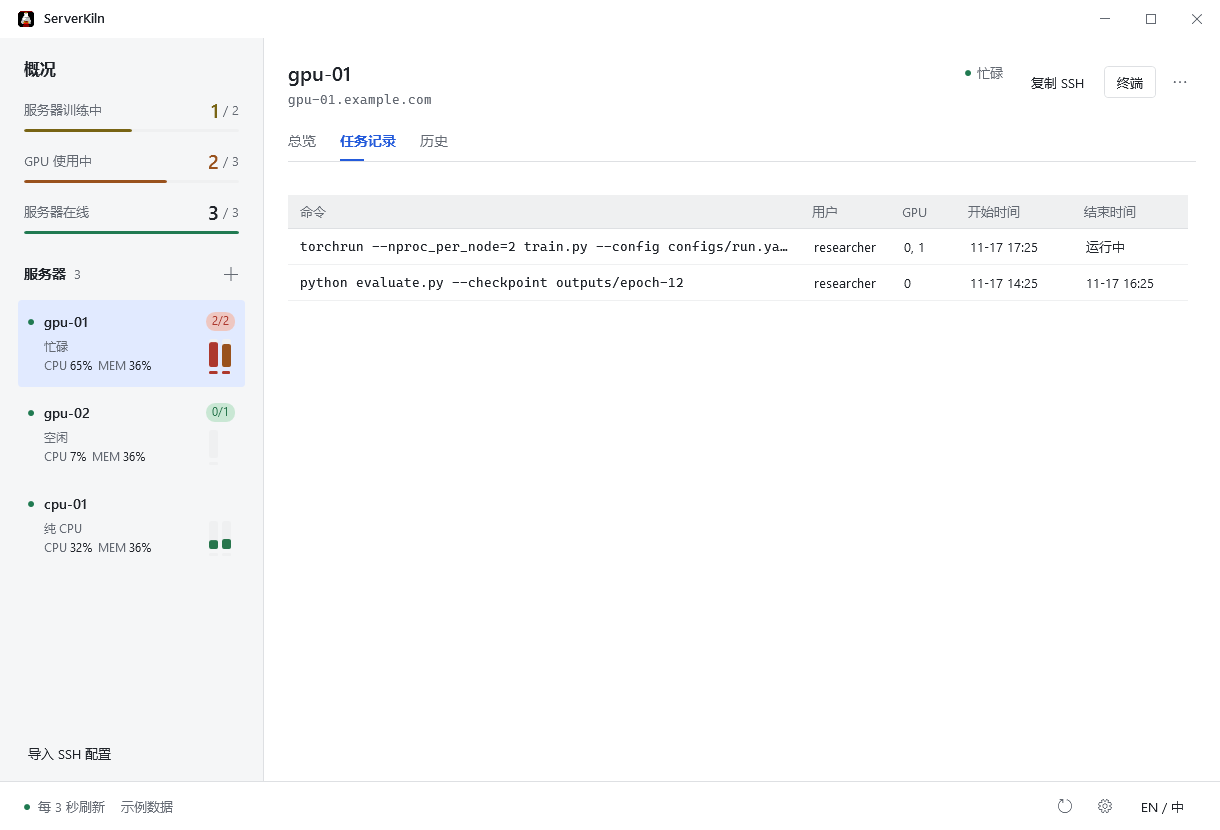
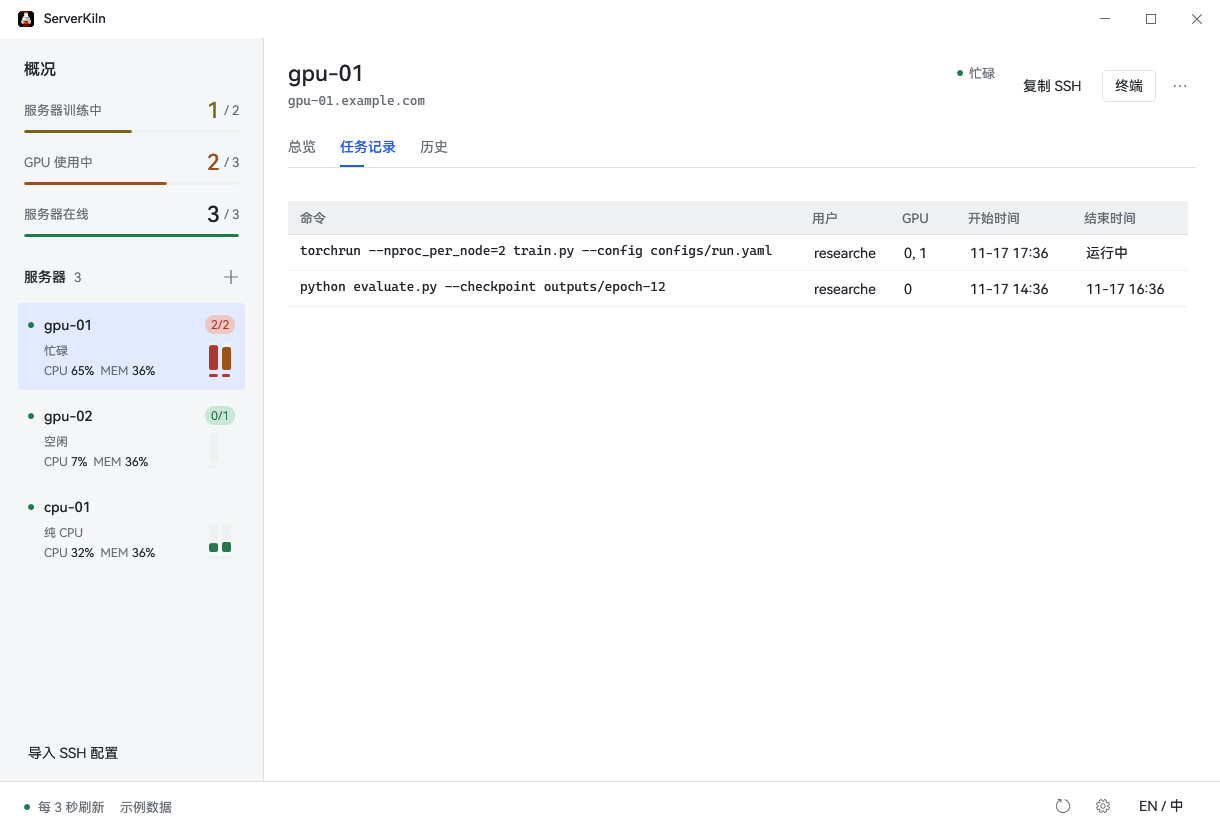
ui: refine Windows typography and font fallbacks

diff --git a/Sources/ServerKiln.Windows/MainWindow.xaml b/Sources/ServerKiln.Windows/MainWindow.xaml
@@ -51,7 +51,7 @@
     </StackPanel></Expander.Header>
     <StackPanel>
      <Border BorderBrush="{DynamicResource BorderBrush}" BorderThickness="0,1,0,0" Padding="0,12,0,0">
-      <TextBox Text="{Binding Command, Mode=OneWay}" IsReadOnly="True" TextWrapping="Wrap" BorderThickness="0" Background="{DynamicResource RaisedBrush}" Padding="10,8" FontFamily="Cascadia Mono, Consolas, Microsoft YaHei UI" FontSize="13" MaxHeight="200" VerticalScrollBarVisibility="Auto" />
+      <TextBox Text="{Binding Command, Mode=OneWay}" IsReadOnly="True" TextWrapping="Wrap" BorderThickness="0" Background="{DynamicResource RaisedBrush}" Padding="10,8" FontFamily="{DynamicResource MonoFontFamily}" FontSize="13" MaxHeight="200" VerticalScrollBarVisibility="Auto" />
      </Border>
      <Grid Margin="0,12,0,8">
       <Grid.ColumnDefinitions><ColumnDefinition Width="Auto" /><ColumnDefinition /></Grid.ColumnDefinitions>
@@ -70,7 +70,7 @@
   <Grid.ColumnDefinitions><ColumnDefinition Width="264" /><ColumnDefinition /></Grid.ColumnDefinitions>
   <Grid.RowDefinitions><RowDefinition Height="38" /><RowDefinition /><RowDefinition Height="Auto" /></Grid.RowDefinitions>
   <Grid Grid.ColumnSpan="2" Background="{DynamicResource SurfaceBrush}">
-   <StackPanel Orientation="Horizontal" Margin="16,0,0,0" VerticalAlignment="Center"><Image Source="AppIcon.ico" Width="20" Height="20" Margin="0,0,8,0" /><TextBlock Text="ServerKiln" FontSize="13" FontWeight="SemiBold" /></StackPanel>
+   <StackPanel Orientation="Horizontal" Margin="16,0,0,0" VerticalAlignment="Center"><Image Source="AppIcon.ico" Width="20" Height="20" Margin="0,0,8,0" /><TextBlock Text="ServerKiln" FontSize="13" FontWeight="Medium" /></StackPanel>
    <StackPanel Orientation="Horizontal" HorizontalAlignment="Right" shell:WindowChrome.IsHitTestVisibleInChrome="True">
     <Button Style="{StaticResource CaptionButton}" Content="&#xE921;" Click="MinimizeWindow" ToolTip="{Binding [Minimize], Source={x:Static local:Localizer.Current}}" AutomationProperties.Name="{Binding [Minimize], Source={x:Static local:Localizer.Current}}" />
     <Button x:Name="MaximizeButton" Style="{StaticResource CaptionButton}" Content="&#xE922;" Click="MaximizeWindow" />
@@ -80,24 +80,24 @@
   <Border Grid.Row="1" Grid.Column="0" Background="{DynamicResource SidebarBrush}" BorderBrush="{DynamicResource BorderBrush}" BorderThickness="0,0,1,0" Padding="16,20,16,12">
    <Grid><Grid.RowDefinitions><RowDefinition Height="Auto" /><RowDefinition Height="Auto" /><RowDefinition /><RowDefinition Height="Auto" /></Grid.RowDefinitions>
     <StackPanel Margin="8,0,8,24">
-     <TextBlock Text="{Binding [FleetOverview], Source={x:Static local:Localizer.Current}}" FontSize="16" FontWeight="SemiBold" Margin="0,0,0,16" />
+     <TextBlock Text="{Binding [FleetOverview], Source={x:Static local:Localizer.Current}}" FontSize="16" FontWeight="Medium" Margin="0,0,0,16" />
      <Grid Margin="0,0,0,14"><Grid.ColumnDefinitions><ColumnDefinition /><ColumnDefinition Width="Auto" /></Grid.ColumnDefinitions><Grid.RowDefinitions><RowDefinition /><RowDefinition Height="Auto" /></Grid.RowDefinitions>
-      <TextBlock Text="{Binding [TrainingServers], Source={x:Static local:Localizer.Current}}" Style="{StaticResource Caption}" VerticalAlignment="Center" /><StackPanel Grid.Column="1" Orientation="Horizontal"><TextBlock Text="{Binding TrainingCount}" FontSize="20" FontWeight="SemiBold" Foreground="{Binding TrainingBrush}" /><TextBlock Text="{Binding TrainingTotal}" Style="{StaticResource Caption}" VerticalAlignment="Center" Margin="4,0,0,0" /></StackPanel><ProgressBar Grid.Row="1" Grid.ColumnSpan="2" Value="{Binding TrainingFraction, Mode=OneWay}" Foreground="{Binding TrainingBrush}" Margin="0,6,0,0" />
+      <TextBlock Text="{Binding [TrainingServers], Source={x:Static local:Localizer.Current}}" Style="{StaticResource Caption}" VerticalAlignment="Center" /><StackPanel Grid.Column="1" Orientation="Horizontal"><TextBlock Text="{Binding TrainingCount}" Style="{StaticResource MetricValue}" Foreground="{Binding TrainingBrush}" /><TextBlock Text="{Binding TrainingTotal}" Style="{StaticResource Caption}" VerticalAlignment="Center" Margin="4,0,0,0" /></StackPanel><ProgressBar Grid.Row="1" Grid.ColumnSpan="2" Value="{Binding TrainingFraction, Mode=OneWay}" Foreground="{Binding TrainingBrush}" Margin="0,6,0,0" />
      </Grid>
      <Grid Margin="0,0,0,14"><Grid.ColumnDefinitions><ColumnDefinition /><ColumnDefinition Width="Auto" /></Grid.ColumnDefinitions><Grid.RowDefinitions><RowDefinition /><RowDefinition Height="Auto" /></Grid.RowDefinitions>
-      <TextBlock Text="{Binding [BusyGpus], Source={x:Static local:Localizer.Current}}" Style="{StaticResource Caption}" VerticalAlignment="Center" /><StackPanel Grid.Column="1" Orientation="Horizontal"><TextBlock Text="{Binding BusyGpuCount}" FontSize="20" FontWeight="SemiBold" Foreground="{Binding GpuBrush}" /><TextBlock Text="{Binding GpuTotal}" Style="{StaticResource Caption}" VerticalAlignment="Center" Margin="4,0,0,0" /></StackPanel><ProgressBar Grid.Row="1" Grid.ColumnSpan="2" Value="{Binding GpuFraction, Mode=OneWay}" Foreground="{Binding GpuBrush}" Margin="0,6,0,0" />
+      <TextBlock Text="{Binding [BusyGpus], Source={x:Static local:Localizer.Current}}" Style="{StaticResource Caption}" VerticalAlignment="Center" /><StackPanel Grid.Column="1" Orientation="Horizontal"><TextBlock Text="{Binding BusyGpuCount}" Style="{StaticResource MetricValue}" Foreground="{Binding GpuBrush}" /><TextBlock Text="{Binding GpuTotal}" Style="{StaticResource Caption}" VerticalAlignment="Center" Margin="4,0,0,0" /></StackPanel><ProgressBar Grid.Row="1" Grid.ColumnSpan="2" Value="{Binding GpuFraction, Mode=OneWay}" Foreground="{Binding GpuBrush}" Margin="0,6,0,0" />
      </Grid>
      <Grid><Grid.ColumnDefinitions><ColumnDefinition /><ColumnDefinition Width="Auto" /></Grid.ColumnDefinitions><Grid.RowDefinitions><RowDefinition /><RowDefinition Height="Auto" /></Grid.RowDefinitions>
-      <TextBlock Text="{Binding [OnlineServers], Source={x:Static local:Localizer.Current}}" Style="{StaticResource Caption}" VerticalAlignment="Center" /><StackPanel Grid.Column="1" Orientation="Horizontal"><TextBlock Text="{Binding OnlineCount}" FontSize="20" FontWeight="SemiBold" /><TextBlock Text="{Binding OnlineTotal}" Style="{StaticResource Caption}" VerticalAlignment="Center" Margin="4,0,0,0" /></StackPanel><ProgressBar Grid.Row="1" Grid.ColumnSpan="2" Value="{Binding OnlineFraction, Mode=OneWay}" Foreground="{DynamicResource GreenBrush}" Margin="0,6,0,0" />
+      <TextBlock Text="{Binding [OnlineServers], Source={x:Static local:Localizer.Current}}" Style="{StaticResource Caption}" VerticalAlignment="Center" /><StackPanel Grid.Column="1" Orientation="Horizontal"><TextBlock Text="{Binding OnlineCount}" Style="{StaticResource MetricValue}" /><TextBlock Text="{Binding OnlineTotal}" Style="{StaticResource Caption}" VerticalAlignment="Center" Margin="4,0,0,0" /></StackPanel><ProgressBar Grid.Row="1" Grid.ColumnSpan="2" Value="{Binding OnlineFraction, Mode=OneWay}" Foreground="{DynamicResource GreenBrush}" Margin="0,6,0,0" />
      </Grid>
     </StackPanel>
-    <Grid Grid.Row="1" Margin="8,0,0,8"><Grid.ColumnDefinitions><ColumnDefinition /><ColumnDefinition Width="Auto" /></Grid.ColumnDefinitions><StackPanel Orientation="Horizontal" VerticalAlignment="Center"><TextBlock Text="{Binding [Fleet], Source={x:Static local:Localizer.Current}}" FontWeight="SemiBold" /><TextBlock Text="{Binding Servers.Count}" Style="{StaticResource Caption}" Margin="8,0,0,0" VerticalAlignment="Center" /></StackPanel><Button Grid.Column="1" Content="&#xE710;" Style="{StaticResource IconButton}" Click="AddServer" ToolTip="{Binding [Add], Source={x:Static local:Localizer.Current}}" AutomationProperties.Name="{Binding [Add], Source={x:Static local:Localizer.Current}}" /></Grid>
+    <Grid Grid.Row="1" Margin="8,0,0,8"><Grid.ColumnDefinitions><ColumnDefinition /><ColumnDefinition Width="Auto" /></Grid.ColumnDefinitions><StackPanel Orientation="Horizontal" VerticalAlignment="Center"><TextBlock Text="{Binding [Fleet], Source={x:Static local:Localizer.Current}}" FontWeight="Medium" /><TextBlock Text="{Binding Servers.Count}" Style="{StaticResource Caption}" Margin="8,0,0,0" VerticalAlignment="Center" /></StackPanel><Button Grid.Column="1" Content="&#xE710;" Style="{StaticResource IconButton}" Click="AddServer" ToolTip="{Binding [Add], Source={x:Static local:Localizer.Current}}" AutomationProperties.Name="{Binding [Add], Source={x:Static local:Localizer.Current}}" /></Grid>
     <ListBox Grid.Row="2" x:Name="ServerList" ItemsSource="{Binding Servers}" SelectedItem="{Binding SelectedServer, Mode=TwoWay}" AutomationProperties.Name="{Binding [Fleet], Source={x:Static local:Localizer.Current}}" ScrollViewer.VerticalScrollBarVisibility="Auto">
      <ListBox.ItemTemplate><DataTemplate>
       <Grid Margin="2,4"><Grid.ColumnDefinitions><ColumnDefinition Width="16" /><ColumnDefinition /></Grid.ColumnDefinitions>
        <Ellipse Width="6" Height="6" Fill="{Binding ConnectionBrush}" HorizontalAlignment="Left" VerticalAlignment="Top" Margin="0,7,0,0" />
        <StackPanel Grid.Column="1">
-        <DockPanel><Border DockPanel.Dock="Right" Background="{Binding OccupancyFill}" CornerRadius="9" Padding="6,1" Margin="8,0,0,0" Visibility="{Binding GpuVisibility}"><TextBlock Text="{Binding Occupancy}" Foreground="{Binding OccupancyBrush}" FontSize="12" /></Border><TextBlock Text="{Binding Name}" FontSize="14" FontWeight="SemiBold" TextTrimming="CharacterEllipsis" ToolTip="{Binding Name}" /></DockPanel>
+        <DockPanel><Border DockPanel.Dock="Right" Background="{Binding OccupancyFill}" CornerRadius="9" Padding="6,1" Margin="8,0,0,0" Visibility="{Binding GpuVisibility}"><TextBlock Text="{Binding Occupancy}" Foreground="{Binding OccupancyBrush}" FontSize="12" /></Border><TextBlock Text="{Binding Name}" FontSize="14" FontWeight="Medium" TextTrimming="CharacterEllipsis" ToolTip="{Binding Name}" /></DockPanel>
         <Grid Margin="0,8,0,0"><Grid.ColumnDefinitions><ColumnDefinition /><ColumnDefinition Width="Auto" /></Grid.ColumnDefinitions><StackPanel><TextBlock Text="{Binding Status}" Style="{StaticResource Caption}" FontSize="12" /><StackPanel Orientation="Horizontal" Margin="0,4,0,0"><TextBlock Text="CPU " Style="{StaticResource Caption}" FontSize="12" /><TextBlock Text="{Binding Cpu}" FontSize="12" /><TextBlock Text="  MEM " Style="{StaticResource Caption}" FontSize="12" /><TextBlock Text="{Binding Ram}" FontSize="12" /></StackPanel></StackPanel><local:GpuMiniBars Grid.Column="1" Snapshot="{Binding Reading.Snapshot}" MaxWidth="54" Margin="8,0,0,0" VerticalAlignment="Center" ToolTip="{Binding GpuModel}" /></Grid>
        </StackPanel>
       </Grid>
@@ -108,10 +108,10 @@
   </Border>
   <Border Grid.Row="1" Grid.Column="1" Background="{DynamicResource SurfaceBrush}" Padding="24,20,24,0">
    <Grid>
-   <StackPanel Visibility="{Binding EmptyVisibility}" VerticalAlignment="Center" HorizontalAlignment="Center" MaxWidth="420"><TextBlock Text="{Binding [NoServers], Source={x:Static local:Localizer.Current}}" FontSize="18" FontWeight="SemiBold" TextAlignment="Center" /><TextBlock Text="{Binding [Welcome], Source={x:Static local:Localizer.Current}}" Style="{StaticResource Caption}" TextWrapping="Wrap" TextAlignment="Center" Margin="0,12,0,24" /><Button Content="{Binding [Add], Source={x:Static local:Localizer.Current}}" Click="AddServer" HorizontalAlignment="Center" /></StackPanel>
+   <StackPanel Visibility="{Binding EmptyVisibility}" VerticalAlignment="Center" HorizontalAlignment="Center" MaxWidth="420"><TextBlock Text="{Binding [NoServers], Source={x:Static local:Localizer.Current}}" FontSize="18" FontWeight="Medium" TextAlignment="Center" /><TextBlock Text="{Binding [Welcome], Source={x:Static local:Localizer.Current}}" Style="{StaticResource Caption}" TextWrapping="Wrap" TextAlignment="Center" Margin="0,12,0,24" /><Button Content="{Binding [Add], Source={x:Static local:Localizer.Current}}" Click="AddServer" HorizontalAlignment="Center" /></StackPanel>
    <Grid x:Name="DetailView" Visibility="{Binding DetailVisibility}"><Grid.RowDefinitions><RowDefinition Height="Auto" /><RowDefinition /></Grid.RowDefinitions>
     <Grid x:Name="DetailsHeader" DataContext="{Binding SelectedServer}" Margin="0,0,0,16"><Grid.ColumnDefinitions><ColumnDefinition /><ColumnDefinition Width="Auto" /></Grid.ColumnDefinitions>
-     <StackPanel Margin="0,0,16,0"><DockPanel><StackPanel DockPanel.Dock="Right" Orientation="Horizontal" Margin="12,0,0,0" VerticalAlignment="Center"><Ellipse Width="6" Height="6" Fill="{Binding ConnectionBrush}" Margin="0,0,6,0" /><TextBlock Text="{Binding Status}" Style="{StaticResource Caption}" /></StackPanel><TextBlock Text="{Binding Name}" FontSize="20" FontWeight="SemiBold" TextTrimming="CharacterEllipsis" ToolTip="{Binding Name}" /></DockPanel><TextBlock Text="{Binding Target}" Style="{StaticResource CommandText}" Foreground="{DynamicResource MutedBrush}" Margin="0,6,0,0" ToolTip="{Binding Target}" /></StackPanel>
+     <StackPanel Margin="0,0,16,0"><DockPanel><StackPanel DockPanel.Dock="Right" Orientation="Horizontal" Margin="12,0,0,0" VerticalAlignment="Center"><Ellipse Width="6" Height="6" Fill="{Binding ConnectionBrush}" Margin="0,0,6,0" /><TextBlock Text="{Binding Status}" Style="{StaticResource Caption}" /></StackPanel><TextBlock Text="{Binding Name}" FontSize="22" FontWeight="Medium" TextTrimming="CharacterEllipsis" ToolTip="{Binding Name}" /></DockPanel><TextBlock Text="{Binding Target}" Style="{StaticResource CommandText}" Foreground="{DynamicResource MutedBrush}" Margin="0,6,0,0" ToolTip="{Binding Target}" /></StackPanel>
      <StackPanel Grid.Column="1" Orientation="Horizontal" VerticalAlignment="Center"><Button Content="{Binding [CopySsh], Source={x:Static local:Localizer.Current}}" Click="CopySsh" Style="{StaticResource GhostButton}" Margin="0,0,8,0" /><Button Content="{Binding [Terminal], Source={x:Static local:Localizer.Current}}" Click="OpenTerminal" Margin="0,0,8,0" />
       <Button x:Name="ServerMenuButton" Content="&#xE712;" Click="OpenServerMenu" Style="{StaticResource IconButton}" ToolTip="{Binding [More], Source={x:Static local:Localizer.Current}}" AutomationProperties.Name="{Binding [More], Source={x:Static local:Localizer.Current}}"><Button.ContextMenu><ContextMenu><MenuItem Header="{Binding [Edit], Source={x:Static local:Localizer.Current}}" Click="EditServer" /><MenuItem Header="{Binding [FirstConnect], Source={x:Static local:Localizer.Current}}" Click="OpenTerminal" /><MenuItem Header="{Binding [JobHistory], Source={x:Static local:Localizer.Current}}" Click="OpenJobs" /><Separator /><MenuItem Header="{Binding [Remove], Source={x:Static local:Localizer.Current}}" Click="RemoveServer" Foreground="{DynamicResource DangerBrush}" /></ContextMenu></Button.ContextMenu></Button>
      </StackPanel>
@@ -119,16 +119,16 @@
     <TabControl Grid.Row="1" x:Name="DetailTabs" SelectionChanged="TabChanged">
      <TabItem x:Name="OverviewTab" Header="{Binding [Overview], Source={x:Static local:Localizer.Current}}" IsSelected="True"><ScrollViewer x:Name="DetailScroll" Background="{DynamicResource SurfaceBrush}" VerticalScrollBarVisibility="Auto" HorizontalScrollBarVisibility="Disabled" Padding="0,16,8,12">
       <StackPanel x:Name="OverviewBody" DataContext="{Binding SelectedServer}">
-       <Border Background="{DynamicResource DangerSoftBrush}" CornerRadius="4" Padding="12" Margin="0,0,0,12" Visibility="{Binding ErrorVisibility}"><StackPanel><TextBlock Text="{Binding ErrorTitle}" FontWeight="SemiBold" Foreground="{DynamicResource DangerBrush}" /><TextBlock Text="{Binding ErrorHint}" Style="{StaticResource Caption}" TextWrapping="Wrap" Margin="0,6,0,0" /><TextBox Text="{Binding Error, Mode=OneWay}" IsReadOnly="True" TextWrapping="Wrap" MaxHeight="100" VerticalScrollBarVisibility="Auto" Margin="0,8,0,8" /><Button Content="{Binding [FirstConnect], Source={x:Static local:Localizer.Current}}" Click="OpenTerminal" HorizontalAlignment="Left" /></StackPanel></Border>
+       <Border Background="{DynamicResource DangerSoftBrush}" CornerRadius="4" Padding="12" Margin="0,0,0,12" Visibility="{Binding ErrorVisibility}"><StackPanel><TextBlock Text="{Binding ErrorTitle}" FontWeight="Medium" Foreground="{DynamicResource DangerBrush}" /><TextBlock Text="{Binding ErrorHint}" Style="{StaticResource Caption}" TextWrapping="Wrap" Margin="0,6,0,0" /><TextBox Text="{Binding Error, Mode=OneWay}" IsReadOnly="True" TextWrapping="Wrap" MaxHeight="100" VerticalScrollBarVisibility="Auto" Margin="0,8,0,8" /><Button Content="{Binding [FirstConnect], Source={x:Static local:Localizer.Current}}" Click="OpenTerminal" HorizontalAlignment="Left" /></StackPanel></Border>
        <TextBlock Text="{Binding GpuMessage}" Visibility="{Binding GpuMessageVisibility}" Style="{StaticResource Caption}" TextWrapping="Wrap" Margin="0,0,0,12" />
        <Grid Visibility="{Binding GpuVisibility}" Margin="0,0,0,16"><Grid.RowDefinitions><RowDefinition Height="Auto" /><RowDefinition /></Grid.RowDefinitions>
         <Grid Margin="0,0,0,8"><Grid.ColumnDefinitions><ColumnDefinition Width="44" /><ColumnDefinition Width="2.4*" /><ColumnDefinition /><ColumnDefinition Width="72" /></Grid.ColumnDefinitions><TextBlock Grid.ColumnSpan="2" Text="{Binding GpuModel}" Style="{StaticResource SectionTitle}" TextTrimming="CharacterEllipsis" Margin="0,0,110,0" ToolTip="{Binding GpuModel}" /><TextBlock Grid.Column="1" Text="{Binding [Vram], Source={x:Static local:Localizer.Current}}" Style="{StaticResource Caption}" HorizontalAlignment="Right" Margin="0,0,12,0" /><TextBlock Grid.Column="2" Text="{Binding [Utilization], Source={x:Static local:Localizer.Current}}" Style="{StaticResource Caption}" /></Grid>
         <ItemsControl Grid.Row="1" ItemsSource="{Binding Gpus}"><ItemsControl.ItemTemplate><DataTemplate>
          <Grid Margin="0,0,0,6" ToolTip="{Binding Name}"><Grid.ColumnDefinitions><ColumnDefinition Width="44" /><ColumnDefinition Width="2.4*" /><ColumnDefinition /><ColumnDefinition Width="72" /></Grid.ColumnDefinitions>
-          <Border Background="{DynamicResource RaisedBrush}" CornerRadius="4" Width="30" Height="28" HorizontalAlignment="Left"><TextBlock Text="{Binding Number}" FontWeight="SemiBold" HorizontalAlignment="Center" VerticalAlignment="Center" /></Border>
-          <Grid Grid.Column="1" Margin="0,0,10,0"><ProgressBar Style="{StaticResource ValueMeter}" Value="{Binding MemoryValue, Mode=OneWay}" Foreground="{Binding MemoryFill}" /><TextBlock Text="{Binding Memory}" FontSize="13" FontWeight="SemiBold" Margin="10,0" VerticalAlignment="Center" /></Grid>
-          <Grid Grid.Column="2"><ProgressBar Style="{StaticResource ValueMeter}" Value="{Binding UtilizationValue, Mode=OneWay}" Foreground="{Binding UtilizationFill}" /><TextBlock Text="{Binding Utilization}" FontSize="13" FontWeight="SemiBold" Margin="10,0" VerticalAlignment="Center" /></Grid>
-          <StackPanel Grid.Column="3" HorizontalAlignment="Right"><TextBlock Text="{Binding Temperature}" FontSize="12" HorizontalAlignment="Right" /><TextBlock Text="{Binding Power}" Style="{StaticResource Caption}" FontSize="11" HorizontalAlignment="Right" /></StackPanel>
+          <Border Background="{DynamicResource RaisedBrush}" CornerRadius="4" Width="30" Height="28" HorizontalAlignment="Left"><TextBlock Text="{Binding Number}" FontWeight="Medium" HorizontalAlignment="Center" VerticalAlignment="Center" /></Border>
+          <Grid Grid.Column="1" Margin="0,0,10,0"><ProgressBar Style="{StaticResource ValueMeter}" Value="{Binding MemoryValue, Mode=OneWay}" Foreground="{Binding MemoryFill}" /><TextBlock Text="{Binding Memory}" FontSize="14" FontWeight="Medium" Margin="10,0" VerticalAlignment="Center" /></Grid>
+          <Grid Grid.Column="2"><ProgressBar Style="{StaticResource ValueMeter}" Value="{Binding UtilizationValue, Mode=OneWay}" Foreground="{Binding UtilizationFill}" /><TextBlock Text="{Binding Utilization}" FontSize="14" FontWeight="Medium" Margin="10,0" VerticalAlignment="Center" /></Grid>
+          <StackPanel Grid.Column="3" HorizontalAlignment="Right"><TextBlock Text="{Binding Temperature}" FontSize="12" HorizontalAlignment="Right" /><TextBlock Text="{Binding Power}" Style="{StaticResource Caption}" FontSize="12" HorizontalAlignment="Right" /></StackPanel>
          </Grid>
         </DataTemplate></ItemsControl.ItemTemplate></ItemsControl>
        </Grid>
@@ -137,11 +137,11 @@
        <Expander Style="{StaticResource TaskDisclosure}" Header="{Binding ProcessHeading}" Margin="0,0,0,12"><ItemsControl ItemsSource="{Binding Processes}" ItemTemplate="{StaticResource TaskTemplate}" /></Expander>
        <TextBlock Text="{Binding [System], Source={x:Static local:Localizer.Current}}" Style="{StaticResource SectionTitle}" Margin="0,0,0,8" />
        <Grid><Grid.ColumnDefinitions><ColumnDefinition Width="88" /><ColumnDefinition /><ColumnDefinition Width="230" /></Grid.ColumnDefinitions><Grid.RowDefinitions><RowDefinition Height="24" /><RowDefinition Height="24" /><RowDefinition Height="24" /><RowDefinition Height="24" /><RowDefinition Height="24" /></Grid.RowDefinitions>
-        <TextBlock Text="CPU" Style="{StaticResource Caption}" VerticalAlignment="Center" /><ProgressBar Grid.Column="1" Value="{Binding CpuValue, Mode=OneWay}" Foreground="{Binding CpuBrush}" VerticalAlignment="Center" /><TextBlock Grid.Column="2" Text="{Binding CpuDetail}" HorizontalAlignment="Right" VerticalAlignment="Center" FontSize="13" />
-        <TextBlock Grid.Row="1" Text="{Binding [Ram], Source={x:Static local:Localizer.Current}}" Style="{StaticResource Caption}" VerticalAlignment="Center" /><ProgressBar Grid.Row="1" Grid.Column="1" Value="{Binding RamValue, Mode=OneWay}" Foreground="{Binding RamBrush}" VerticalAlignment="Center" /><TextBlock Grid.Row="1" Grid.Column="2" Text="{Binding RamDetail}" HorizontalAlignment="Right" VerticalAlignment="Center" FontSize="13" />
-        <TextBlock Grid.Row="2" Text="{Binding [Disk], Source={x:Static local:Localizer.Current}}" Style="{StaticResource Caption}" VerticalAlignment="Center" /><ProgressBar Grid.Row="2" Grid.Column="1" Value="{Binding DiskValue, Mode=OneWay}" Foreground="{Binding DiskBrush}" VerticalAlignment="Center" /><TextBlock Grid.Row="2" Grid.Column="2" Text="{Binding DiskDetail}" HorizontalAlignment="Right" VerticalAlignment="Center" FontSize="13" />
-        <TextBlock Grid.Row="3" Text="{Binding [Network], Source={x:Static local:Localizer.Current}}" Style="{StaticResource Caption}" VerticalAlignment="Center" /><TextBlock Grid.Row="3" Grid.Column="1" Grid.ColumnSpan="2" Text="{Binding Network}" FontSize="13" VerticalAlignment="Center" />
-        <TextBlock Grid.Row="4" Text="{Binding [Load], Source={x:Static local:Localizer.Current}}" Style="{StaticResource Caption}" VerticalAlignment="Center" /><TextBlock Grid.Row="4" Grid.Column="1" Text="{Binding Load}" FontSize="13" VerticalAlignment="Center" /><TextBlock Grid.Row="4" Grid.Column="2" Text="{Binding Uptime}" Style="{StaticResource Caption}" VerticalAlignment="Center" HorizontalAlignment="Right" />
+        <TextBlock Text="CPU" Style="{StaticResource Caption}" VerticalAlignment="Center" /><ProgressBar Grid.Column="1" Value="{Binding CpuValue, Mode=OneWay}" Foreground="{Binding CpuBrush}" VerticalAlignment="Center" /><TextBlock Grid.Column="2" Text="{Binding CpuDetail}" HorizontalAlignment="Right" VerticalAlignment="Center" FontSize="14" />
+        <TextBlock Grid.Row="1" Text="{Binding [Ram], Source={x:Static local:Localizer.Current}}" Style="{StaticResource Caption}" VerticalAlignment="Center" /><ProgressBar Grid.Row="1" Grid.Column="1" Value="{Binding RamValue, Mode=OneWay}" Foreground="{Binding RamBrush}" VerticalAlignment="Center" /><TextBlock Grid.Row="1" Grid.Column="2" Text="{Binding RamDetail}" HorizontalAlignment="Right" VerticalAlignment="Center" FontSize="14" />
+        <TextBlock Grid.Row="2" Text="{Binding [Disk], Source={x:Static local:Localizer.Current}}" Style="{StaticResource Caption}" VerticalAlignment="Center" /><ProgressBar Grid.Row="2" Grid.Column="1" Value="{Binding DiskValue, Mode=OneWay}" Foreground="{Binding DiskBrush}" VerticalAlignment="Center" /><TextBlock Grid.Row="2" Grid.Column="2" Text="{Binding DiskDetail}" HorizontalAlignment="Right" VerticalAlignment="Center" FontSize="14" />
+        <TextBlock Grid.Row="3" Text="{Binding [Network], Source={x:Static local:Localizer.Current}}" Style="{StaticResource Caption}" VerticalAlignment="Center" /><TextBlock Grid.Row="3" Grid.Column="1" Grid.ColumnSpan="2" Text="{Binding Network}" FontSize="14" VerticalAlignment="Center" />
+        <TextBlock Grid.Row="4" Text="{Binding [Load], Source={x:Static local:Localizer.Current}}" Style="{StaticResource Caption}" VerticalAlignment="Center" /><TextBlock Grid.Row="4" Grid.Column="1" Text="{Binding Load}" FontSize="14" VerticalAlignment="Center" /><TextBlock Grid.Row="4" Grid.Column="2" Text="{Binding Uptime}" Style="{StaticResource Caption}" VerticalAlignment="Center" HorizontalAlignment="Right" />
        </Grid>
        <TextBlock Text="{Binding Subtitle}" Style="{StaticResource Caption}" TextTrimming="CharacterEllipsis" ToolTip="{Binding Subtitle}" Margin="0,4,0,12" />
       </StackPanel>

diff --git a/Sources/ServerKiln.Windows/App.xaml b/Sources/ServerKiln.Windows/App.xaml
@@ -3,6 +3,8 @@
  xmlns:x="http://schemas.microsoft.com/winfx/2006/xaml"
  ShutdownMode="OnExplicitShutdown">
  <Application.Resources>
+  <FontFamily x:Key="UiFontFamily">HarmonyOS Sans SC, Segoe UI Variable, Segoe UI, Microsoft YaHei UI</FontFamily>
+  <FontFamily x:Key="MonoFontFamily">Cascadia Mono, Consolas, HarmonyOS Sans SC, Microsoft YaHei UI</FontFamily>
   <SolidColorBrush x:Key="BackgroundBrush" Color="#FFFFFF" />
   <SolidColorBrush x:Key="SidebarBrush" Color="#F5F6F7" />
   <SolidColorBrush x:Key="SurfaceBrush" Color="#FFFFFF" />
@@ -28,28 +30,29 @@
   <Style TargetType="Window">
    <Setter Property="Background" Value="{DynamicResource BackgroundBrush}" />
    <Setter Property="Foreground" Value="{DynamicResource TextBrush}" />
-   <Setter Property="FontFamily" Value="Segoe UI, Microsoft YaHei UI" />
+   <Setter Property="FontFamily" Value="{DynamicResource UiFontFamily}" />
    <Setter Property="FontSize" Value="14" />
    <Setter Property="UseLayoutRounding" Value="True" />
-   <Setter Property="TextOptions.TextFormattingMode" Value="Display" />
+   <Setter Property="TextOptions.TextFormattingMode" Value="Ideal" />
+   <Setter Property="Typography.NumeralAlignment" Value="Tabular" />
   </Style>
   <Style x:Key="Caption" TargetType="TextBlock">
    <Setter Property="Foreground" Value="{DynamicResource MutedBrush}" /><Setter Property="FontSize" Value="13" />
   </Style>
   <Style x:Key="SectionTitle" TargetType="TextBlock">
-   <Setter Property="FontSize" Value="14" /><Setter Property="FontWeight" Value="SemiBold" />
+   <Setter Property="FontSize" Value="15" /><Setter Property="FontWeight" Value="Medium" /><Setter Property="LineHeight" Value="22" />
   </Style>
   <Style x:Key="MetricValue" TargetType="TextBlock">
-   <Setter Property="FontSize" Value="24" /><Setter Property="FontWeight" Value="SemiBold" />
-   <Setter Property="Margin" Value="0,4,0,4" /><Setter Property="Typography.NumeralAlignment" Value="Tabular" />
+   <Setter Property="FontSize" Value="22" /><Setter Property="FontWeight" Value="Medium" />
+   <Setter Property="Typography.NumeralAlignment" Value="Tabular" />
   </Style>
-  <Style x:Key="CommandText" TargetType="TextBlock"><Setter Property="FontFamily" Value="Cascadia Mono, Consolas, Microsoft YaHei UI" /><Setter Property="FontSize" Value="13" /><Setter Property="TextTrimming" Value="CharacterEllipsis" /></Style>
+  <Style x:Key="CommandText" TargetType="TextBlock"><Setter Property="FontFamily" Value="{DynamicResource MonoFontFamily}" /><Setter Property="FontSize" Value="13" /><Setter Property="LineHeight" Value="20" /><Setter Property="TextTrimming" Value="CharacterEllipsis" /></Style>
   <Style TargetType="Button">
    <Setter Property="Background" Value="{DynamicResource SurfaceBrush}" />
    <Setter Property="Foreground" Value="{DynamicResource TextBrush}" />
    <Setter Property="BorderBrush" Value="{DynamicResource BorderBrush}" /><Setter Property="BorderThickness" Value="1" />
    <Setter Property="Padding" Value="12,4" /><Setter Property="MinHeight" Value="32" />
-   <Setter Property="FontSize" Value="13" /><Setter Property="Cursor" Value="Hand" />
+   <Setter Property="FontFamily" Value="{DynamicResource UiFontFamily}" /><Setter Property="FontSize" Value="14" /><Setter Property="Cursor" Value="Hand" />
    <Setter Property="FocusVisualStyle" Value="{StaticResource FocusRing}" />
    <Setter Property="Template"><Setter.Value><ControlTemplate TargetType="Button">
     <Border x:Name="Chrome" Background="{TemplateBinding Background}" BorderBrush="{TemplateBinding BorderBrush}"
@@ -152,7 +155,7 @@
    <Setter Property="FocusVisualStyle" Value="{StaticResource FocusRing}" />
    <Setter Property="Template"><Setter.Value><ControlTemplate TargetType="TabItem">
     <Grid><ContentPresenter x:Name="Header" ContentSource="Header" TextElement.Foreground="{DynamicResource MutedBrush}" Margin="{TemplateBinding Padding}" /><Border x:Name="Marker" Visibility="Collapsed" Width="24" Height="2" HorizontalAlignment="Left" VerticalAlignment="Bottom" Background="{DynamicResource AccentBrush}" /></Grid>
-    <ControlTemplate.Triggers><Trigger Property="IsSelected" Value="True"><Setter TargetName="Header" Property="TextElement.Foreground" Value="{DynamicResource AccentBrush}" /><Setter TargetName="Header" Property="TextElement.FontWeight" Value="SemiBold" /><Setter TargetName="Marker" Property="Visibility" Value="Visible" /></Trigger></ControlTemplate.Triggers>
+    <ControlTemplate.Triggers><Trigger Property="IsSelected" Value="True"><Setter TargetName="Header" Property="TextElement.Foreground" Value="{DynamicResource AccentBrush}" /><Setter TargetName="Header" Property="TextElement.FontWeight" Value="Medium" /><Setter TargetName="Marker" Property="Visibility" Value="Visible" /></Trigger></ControlTemplate.Triggers>
    </ControlTemplate></Setter.Value></Setter>
   </Style>
   <Style TargetType="ProgressBar">
@@ -168,11 +171,11 @@
    <Setter Property="HorizontalGridLinesBrush" Value="{DynamicResource ChartGridBrush}" /><Setter Property="GridLinesVisibility" Value="Horizontal" />
    <Setter Property="HeadersVisibility" Value="Column" /><Setter Property="AutoGenerateColumns" Value="False" /><Setter Property="IsReadOnly" Value="True" />
    <Setter Property="CanUserAddRows" Value="False" /><Setter Property="CanUserDeleteRows" Value="False" /><Setter Property="RowHeight" Value="36" />
-   <Setter Property="ColumnHeaderHeight" Value="34" /><Setter Property="FontSize" Value="13" />
+   <Setter Property="ColumnHeaderHeight" Value="34" /><Setter Property="FontSize" Value="14" />
   </Style>
   <Style TargetType="DataGridColumnHeader">
    <Setter Property="Background" Value="{DynamicResource RaisedBrush}" /><Setter Property="Foreground" Value="{DynamicResource MutedBrush}" /><Setter Property="Padding" Value="12,8" />
-   <Setter Property="FontWeight" Value="Normal" /><Setter Property="FontSize" Value="13" /><Setter Property="BorderThickness" Value="0,0,0,1" /><Setter Property="BorderBrush" Value="{DynamicResource BorderBrush}" />
+   <Setter Property="FontWeight" Value="Medium" /><Setter Property="FontSize" Value="13" /><Setter Property="BorderThickness" Value="0,0,0,1" /><Setter Property="BorderBrush" Value="{DynamicResource BorderBrush}" />
   </Style>
   <Style TargetType="DataGridCell">
    <Setter Property="BorderThickness" Value="0" /><Setter Property="Padding" Value="12,4" /><Setter Property="Foreground" Value="{DynamicResource TextBrush}" />
@@ -180,8 +183,12 @@
    <Style.Triggers><Trigger Property="IsSelected" Value="True"><Setter Property="Background" Value="{DynamicResource AccentSoftBrush}" /></Trigger></Style.Triggers>
   </Style>
   <Style TargetType="ContextMenu">
+   <Setter Property="FontFamily" Value="{DynamicResource UiFontFamily}" /><Setter Property="FontSize" Value="14" />
    <Setter Property="Foreground" Value="{DynamicResource TextBrush}" />
    <Setter Property="Template"><Setter.Value><ControlTemplate TargetType="ContextMenu"><Border Background="{DynamicResource SurfaceBrush}" BorderBrush="{DynamicResource BorderBrush}" BorderThickness="1" CornerRadius="4" Padding="4"><StackPanel IsItemsHost="True" KeyboardNavigation.DirectionalNavigation="Cycle" /></Border></ControlTemplate></Setter.Value></Setter>
+  </Style>
+  <Style TargetType="ToolTip">
+   <Setter Property="FontFamily" Value="{DynamicResource UiFontFamily}" /><Setter Property="FontSize" Value="13" />
   </Style>
   <Style TargetType="MenuItem">
    <Setter Property="Padding" Value="13,8" /><Setter Property="Foreground" Value="{DynamicResource TextBrush}" />

diff --git a/Sources/ServerKiln.Windows/Dialogs.cs b/Sources/ServerKiln.Windows/Dialogs.cs
@@ -6,7 +6,7 @@ namespace ServerKiln.Windows;
 internal static class DialogLayout
 {
     public static TextBlock Label(string key, double top = 13) => new()
-    { Text = Localizer.Current[key], FontSize = 13, Margin = new Thickness(0, top, 0, 7), TextWrapping = TextWrapping.Wrap };
+    { Text = Localizer.Current[key], FontSize = 14, Margin = new Thickness(0, top, 0, 7), TextWrapping = TextWrapping.Wrap };
     public static TextBox Input(StackPanel panel, string key, string value)
     {
         panel.Children.Add(Label(key));
@@ -23,20 +23,25 @@ internal static class DialogLayout
     {
         var row = new Grid();
         row.ColumnDefinitions.Add(new ColumnDefinition()); row.ColumnDefinitions.Add(new ColumnDefinition { Width = new GridLength(20) }); row.ColumnDefinitions.Add(new ColumnDefinition());
-        var left = new StackPanel(); var right = new StackPanel(); Grid.SetColumn(right, 2);
-        row.Children.Add(left); row.Children.Add(right); panel.Children.Add(row);
-        var first = Input(left, leftKey, leftValue); var second = Input(right, rightKey, rightValue);
-        ((TextBlock)left.Children[0]).MinHeight = 32; ((TextBlock)right.Children[0]).MinHeight = 32;
+        row.RowDefinitions.Add(new RowDefinition { Height = GridLength.Auto }); row.RowDefinitions.Add(new RowDefinition { Height = GridLength.Auto });
+        var leftLabel = Label(leftKey); var rightLabel = Label(rightKey);
+        leftLabel.MinHeight = rightLabel.MinHeight = 32;
+        Grid.SetColumn(rightLabel, 2); row.Children.Add(leftLabel); row.Children.Add(rightLabel);
+        var first = new TextBox { Text = leftValue }; var second = new TextBox { Text = rightValue };
+        System.Windows.Automation.AutomationProperties.SetName(first, Localizer.Current[leftKey]);
+        System.Windows.Automation.AutomationProperties.SetName(second, Localizer.Current[rightKey]);
+        Grid.SetRow(first, 1); Grid.SetRow(second, 1); Grid.SetColumn(second, 2);
+        row.Children.Add(first); row.Children.Add(second); panel.Children.Add(row);
         return (first, second);
     }
     public static void Section(StackPanel panel, string key)
     {
-        var label = Label(key, 26); label.FontSize = 14; label.FontWeight = FontWeights.SemiBold;
+        var label = Label(key, 26); label.FontSize = 15; label.FontWeight = FontWeights.Medium;
         panel.Children.Add(label);
     }
     public static void Help(StackPanel panel, string key)
     {
-        var text = Label(key, 7); text.FontSize = 13; text.LineHeight = 20;
+        var text = Label(key, 7); text.FontSize = 13; text.LineHeight = 21;
         text.SetResourceReference(TextBlock.ForegroundProperty, "MutedBrush"); panel.Children.Add(text);
     }
     public static (StackPanel Fields, StackPanel Buttons) Build(Window window)

diff --git a/Sources/ServerKiln.Windows/HistoryChart.cs b/Sources/ServerKiln.Windows/HistoryChart.cs
@@ -24,6 +24,7 @@ public sealed class HistoryChart : FrameworkElement
         base.OnRender(context);
         if (ActualWidth < 100 || ActualHeight < 100 || until <= since) return;
         var textBrush = (Brush)FindResource("MutedBrush");
+        var typeface = new Typeface((FontFamily)FindResource("UiFontFamily"), FontStyles.Normal, FontWeights.Normal, FontStretches.Normal);
         var border = new Pen((Brush)FindResource("ChartGridBrush"), 1);
         var palette = Palette;
         var series = new List<(HistoryPoint[] Points, Func<HistoryPoint, double?> Value, Color Color, string Label)>();
@@ -42,7 +43,7 @@ public sealed class HistoryChart : FrameworkElement
             series.Add((overall, p => p.Ram, palette[3], Localizer.Current["Ram"]));
         }
         void Text(string text, double x, double y, Brush? brush = null) => context.DrawText(new FormattedText(text,
-            CultureInfo.CurrentUICulture, FlowDirection.LeftToRight, new Typeface("Segoe UI"), 13,
+            CultureInfo.CurrentUICulture, FlowDirection.LeftToRight, typeface, 13,
             brush ?? textBrush, VisualTreeHelper.GetDpi(this).PixelsPerDip), new Point(x, y));
         var legendColumns = Math.Max(1, (int)(ActualWidth - 60) / 110);
         var legendRows = Math.Max(1, (series.Count + legendColumns - 1) / legendColumns);

diff --git a/Sources/ServerKiln.Windows/MainWindow.xaml.cs b/Sources/ServerKiln.Windows/MainWindow.xaml.cs
@@ -198,7 +198,7 @@ public partial class MainWindow : Window
         {
             button.SetResourceReference(Control.BackgroundProperty, selected ? "SurfaceBrush" : "TransparentBrush");
             button.SetResourceReference(Control.ForegroundProperty, selected ? "AccentBrush" : "MutedBrush");
-            button.FontWeight = selected ? FontWeights.SemiBold : FontWeights.Normal;
+            button.FontWeight = selected ? FontWeights.Medium : FontWeights.Normal;
         }
         foreach (var button in new[] { RangeLive, RangeDay, RangeWeek, RangeMonth })
             Select(button, (string)button.Tag == historyRange.ToString());
